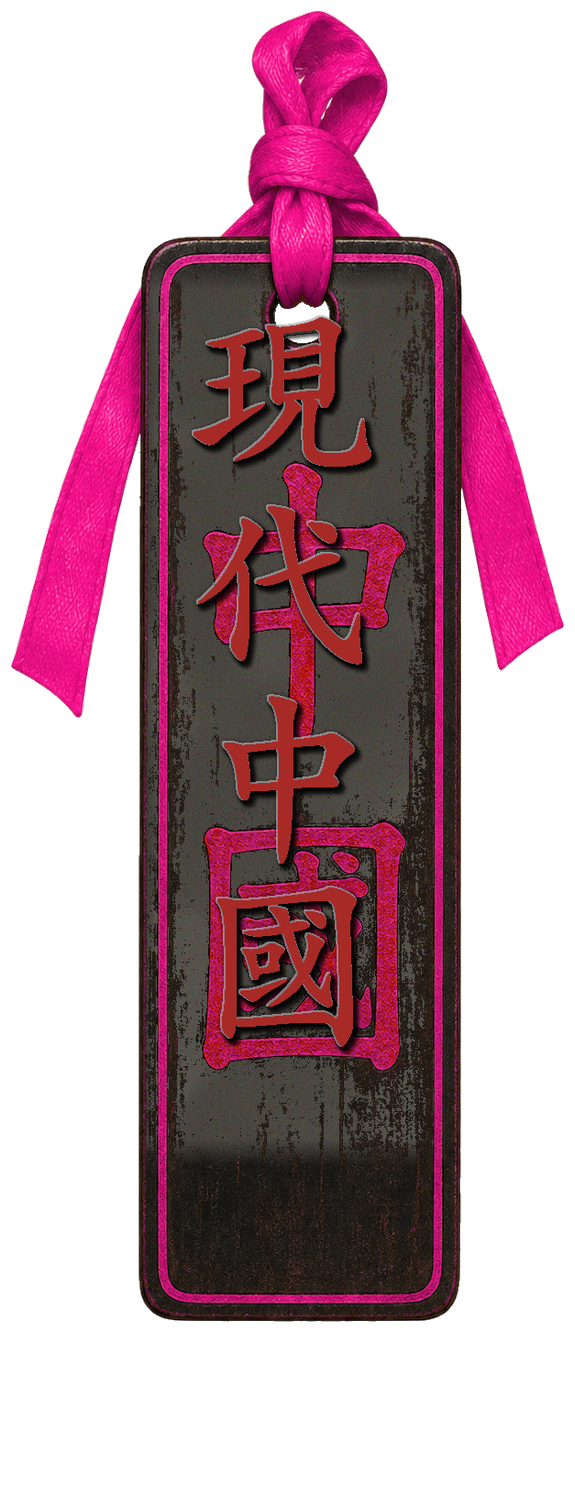
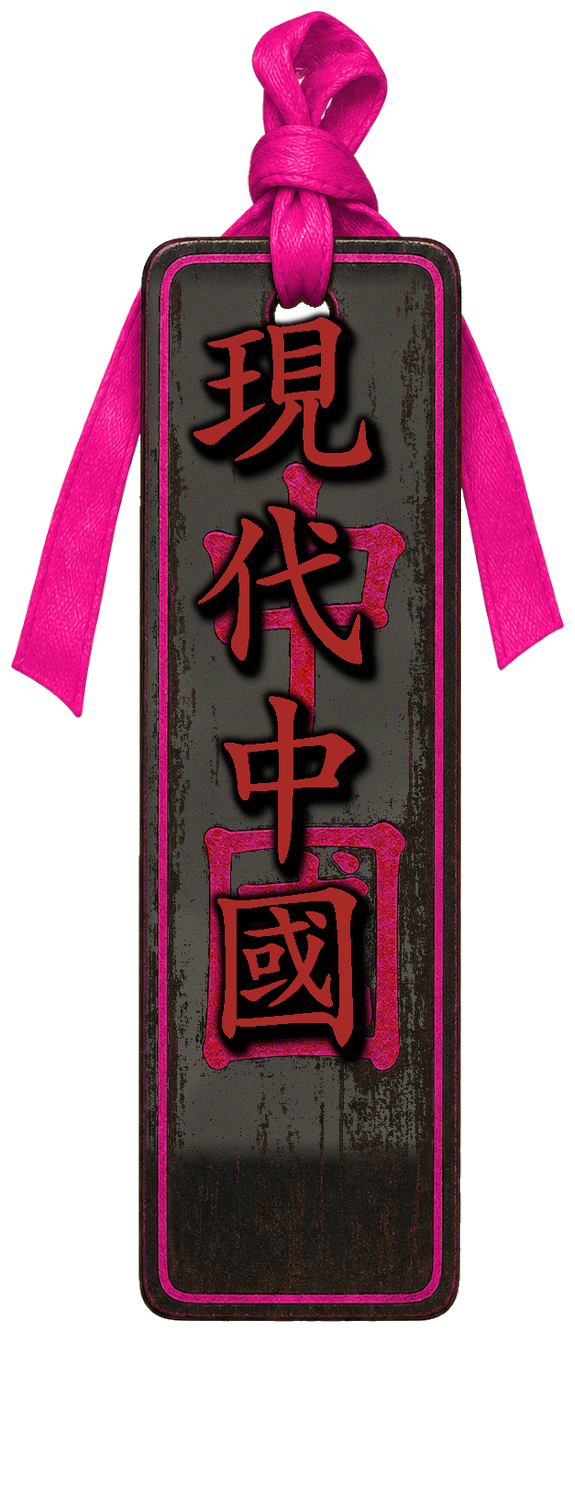
Shadows

Changed region(s): [[0.3252, 0.1868, 0.68, 0.7159]]

diff --git a/src/viewer/chrome.ts b/src/viewer/chrome.ts
@@ -29,13 +29,13 @@ export function mountChrome(viewer: Viewer): void {
     silver: {
       handi: '/ui/silver/handi-lingpai.png',
       zhongguo: '/ui/silver/zhongguo-lingpai.png',
-      xiandai: '/ui/silver/xiandai-lingpai.png?v=kaiti42',
+      xiandai: '/ui/silver/xiandai-lingpai.png?v=kaiti43',
       hailu: '/ui/silver/hailu-lingpai.png',
     },
     bronze: {
       handi: '/ui/bronze/handi-lingpai.png',
       zhongguo: '/ui/bronze/zhongguo-lingpai.png',
-      xiandai: '/ui/bronze/xiandai-lingpai.png?v=kaiti42',
+      xiandai: '/ui/bronze/xiandai-lingpai.png?v=kaiti43',
       hailu: '/ui/bronze/hailu-lingpai.png',
     },
   }

diff --git a/atlab.html b/atlab.html
@@ -123,7 +123,7 @@
               aria-pressed="false"
               hidden
             >
-              <img src="/ui/silver/xiandai-lingpai.png?v=kaiti42" alt="" draggable="false" />
+              <img src="/ui/silver/xiandai-lingpai.png?v=kaiti43" alt="" draggable="false" />
             </button>
             <button
               type="button"

diff --git a/index.html b/index.html
@@ -124,7 +124,7 @@
               aria-pressed="false"
               hidden
             >
-              <img src="/ui/silver/xiandai-lingpai.png?v=kaiti42" alt="" draggable="false" />
+              <img src="/ui/silver/xiandai-lingpai.png?v=kaiti43" alt="" draggable="false" />
             </button>
             <button
               type="button"

diff --git a/scripts/build-xiandai-lingpai.py b/scripts/build-xiandai-lingpai.py
@@ -185,38 +185,39 @@ def _glyph_shadow_stack(overlay: Image.Image, mask: Image.Image, x0: int, y0: in
     """Paint emboss shadows into the glyph overlay only (never tint the plate).
 
     Full soft casts are placed first; the opaque silver/bronze body covers the
-    overlap, leaving a visible SE under-shadow like Zhongguo/Hailu.
-    Tuned ~3× stronger than the first pass so depth reads at UI scale.
+    overlap. Strength tuned for UI scale: deep SE under-cast + soft bloom.
     """
     from PIL import ImageChops
 
     mw, mh = mask.size
 
-    # Soft all-sided ambient halo
-    amb = mask.filter(ImageFilter.MaxFilter(7)).filter(ImageFilter.GaussianBlur(3.2))
+    # Soft all-sided ambient halo (~+30% vs prior via denser alpha + 2nd pass)
+    amb = mask.filter(ImageFilter.MaxFilter(9)).filter(ImageFilter.GaussianBlur(3.6))
     amb_rgba = np.zeros((mh, mw, 4), np.uint8)
-    amb_rgba[:, :, 3] = np.clip(np.array(amb).astype(np.float32) * 0.95, 0, 255).astype(
+    amb_rgba[:, :, 3] = np.clip(np.array(amb).astype(np.float32) * 1.0, 0, 255).astype(
         np.uint8
     )
     overlay.alpha_composite(Image.fromarray(amb_rgba, "RGBA"), (x0, y0))
+    overlay.alpha_composite(Image.fromarray(amb_rgba, "RGBA"), (x0 + 1, y0 + 1))
 
-    # Heavier SE under-puddle (main cast beneath the strokes)
-    puddle = mask.filter(ImageFilter.MaxFilter(7)).filter(ImageFilter.GaussianBlur(2.8))
+    # Heavier SE under-puddle — three stacked casts (~+30% depth)
+    puddle = mask.filter(ImageFilter.MaxFilter(9)).filter(ImageFilter.GaussianBlur(3.2))
     pud_rgba = np.zeros((mh, mw, 4), np.uint8)
     pud_rgba[:, :, 3] = np.clip(np.array(puddle).astype(np.float32) * 1.0, 0, 255).astype(
         np.uint8
     )
-    # Second pass of the puddle for ~3× depth without washing the plate
     overlay.alpha_composite(Image.fromarray(pud_rgba, "RGBA"), (x0 + 5, y0 + 6))
     overlay.alpha_composite(Image.fromarray(pud_rgba, "RGBA"), (x0 + 7, y0 + 9))
+    overlay.alpha_composite(Image.fromarray(pud_rgba, "RGBA"), (x0 + 9, y0 + 12))
 
-    # Far soft SE bloom
-    bloom = mask.filter(ImageFilter.MaxFilter(9)).filter(ImageFilter.GaussianBlur(4.5))
+    # Far soft SE bloom (+10% alpha & spread)
+    bloom = mask.filter(ImageFilter.MaxFilter(11)).filter(ImageFilter.GaussianBlur(5.0))
     bloom_rgba = np.zeros((mh, mw, 4), np.uint8)
-    bloom_rgba[:, :, 3] = np.clip(np.array(bloom).astype(np.float32) * 0.55, 0, 255).astype(
+    bloom_rgba[:, :, 3] = np.clip(np.array(bloom).astype(np.float32) * 0.61, 0, 255).astype(
         np.uint8
     )
-    overlay.alpha_composite(Image.fromarray(bloom_rgba, "RGBA"), (x0 + 8, y0 + 11))
+    overlay.alpha_composite(Image.fromarray(bloom_rgba, "RGBA"), (x0 + 9, y0 + 12))
+    overlay.alpha_composite(Image.fromarray(bloom_rgba, "RGBA"), (x0 + 11, y0 + 14))
 
     # Hard contact rim
     dil = mask.filter(ImageFilter.MaxFilter(5))
@@ -227,6 +228,7 @@ def _glyph_shadow_stack(overlay: Image.Image, mask: Image.Image, x0: int, y0: in
     )
     overlay.alpha_composite(Image.fromarray(edge_rgba, "RGBA"), (x0 + 2, y0 + 3))
     overlay.alpha_composite(Image.fromarray(edge_rgba, "RGBA"), (x0 + 3, y0 + 4))
+    overlay.alpha_composite(Image.fromarray(edge_rgba, "RGBA"), (x0 + 4, y0 + 5))
 
 
 def paint_silver_glyphs(base: Image.Image, font: ImageFont.FreeTypeFont) -> Image.Image:
